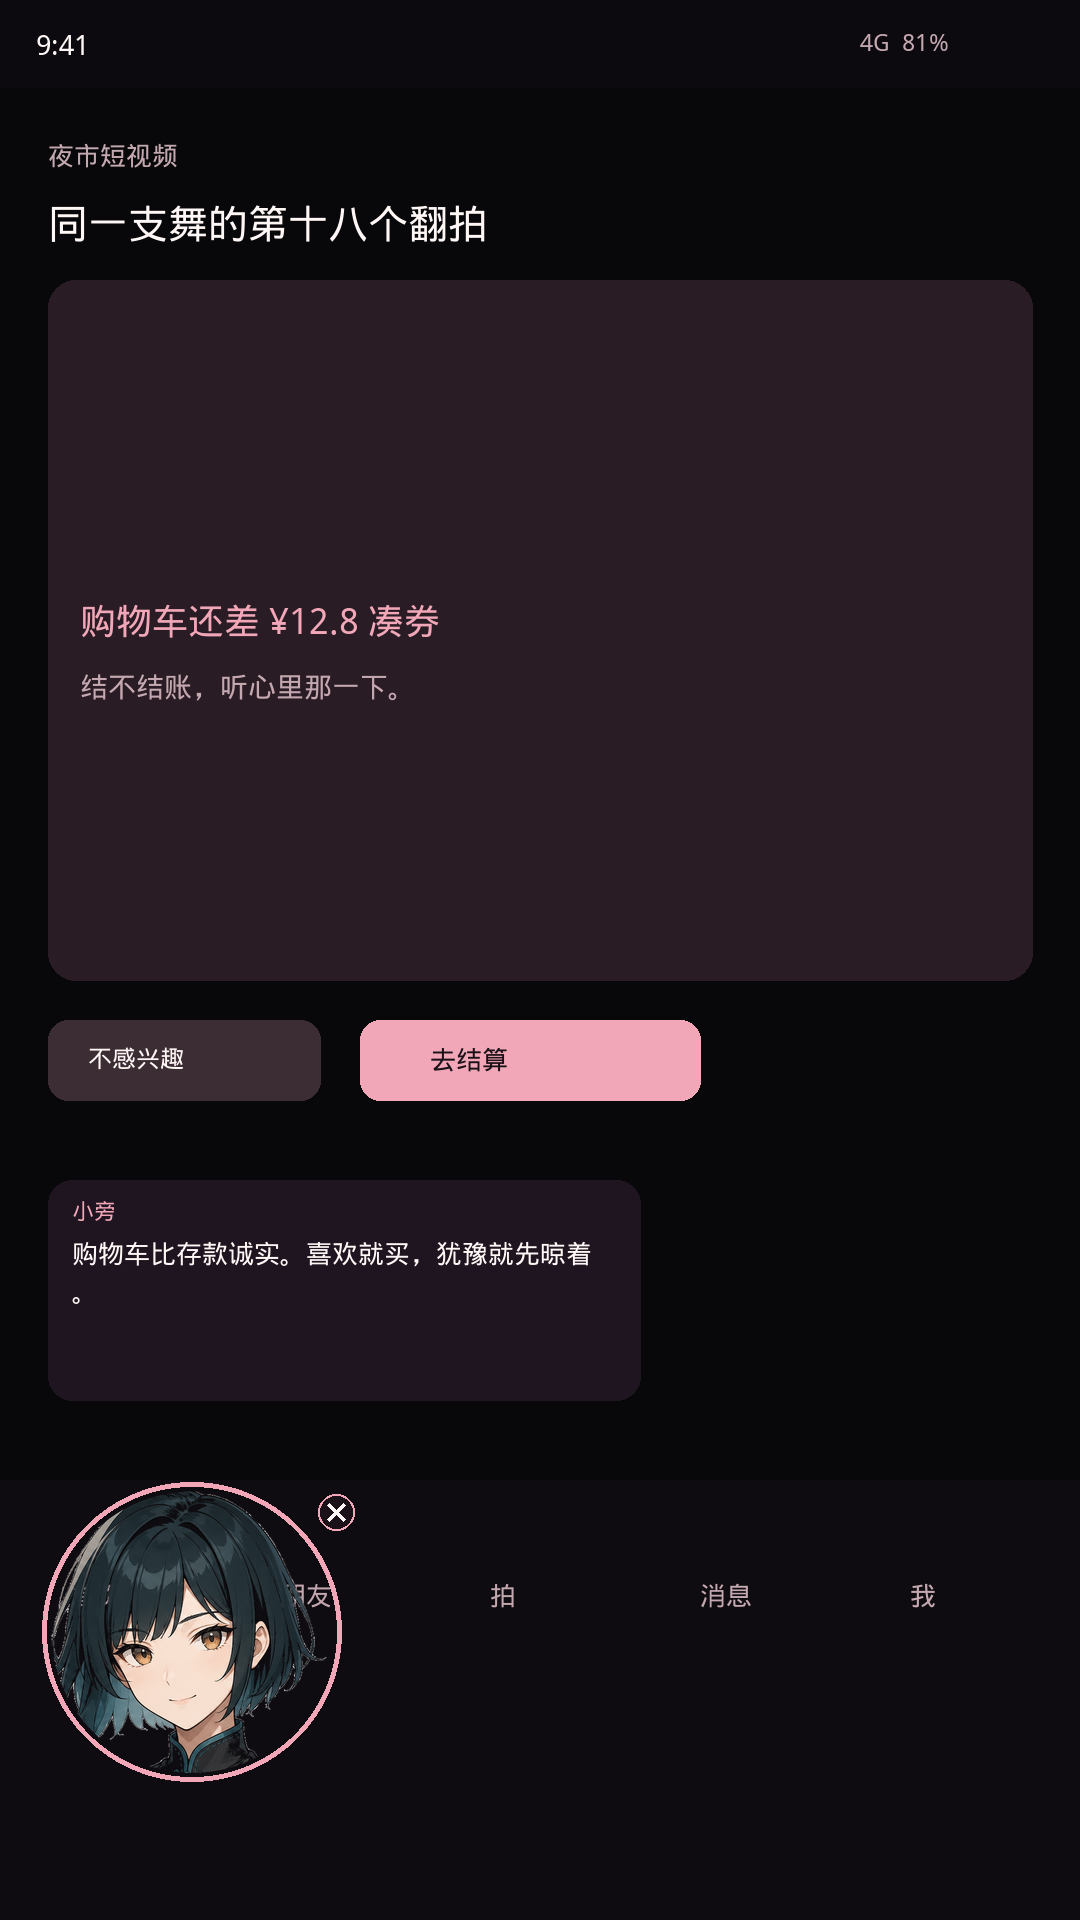
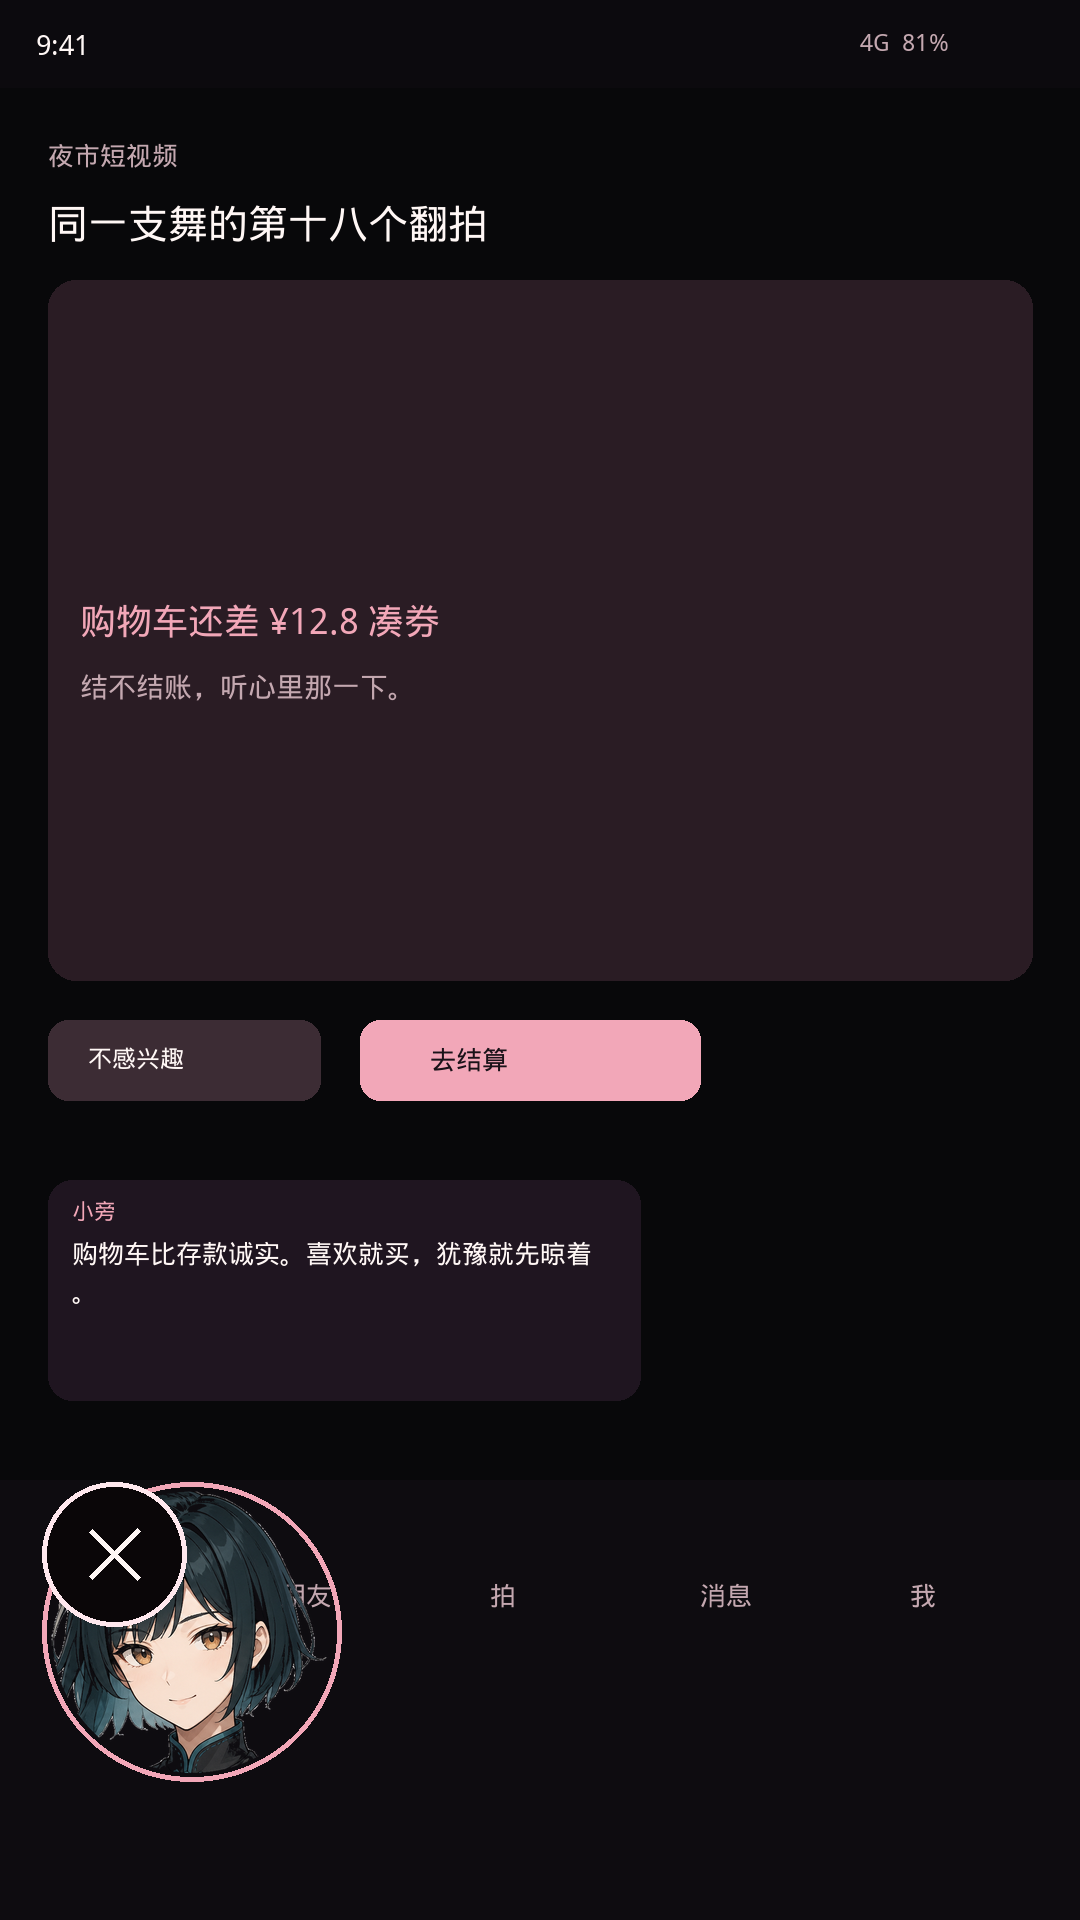
0.13 wip: rounds R61–R70 tests, ProGuard, listing honesty
Expand geometry/markdown tests, stop keeping the whole app in ProGuard,
show version on legal pages, and regenerate listing composites with a
48dp close chip. README and Play docs now name 0.13.0 and still keep
the 0.12.0 APK; screenshots stay labeled as composites, not device photos.

Changed region(s): [[0.0306, 0.75, 0.1833, 0.875], [0.3056, 0.7812, 0.3361, 0.8125]]

diff --git a/android/app/src/main/java/com/pangchuang/app/LegalActivity.kt b/android/app/src/main/java/com/pangchuang/app/LegalActivity.kt
@@ -13,12 +13,16 @@ class LegalActivity : AppCompatActivity() {
         setContentView(binding.root)
 
         val mode = intent.getStringExtra(EXTRA_MODE) ?: MODE_PRIVACY
-        val title = when (mode) {
+        val pageTitle = when (mode) {
             MODE_LICENSES -> getString(R.string.legal_licenses_title)
             MODE_TERMS -> getString(R.string.legal_terms_title)
             else -> getString(R.string.legal_privacy_title)
         }
-        binding.legalTitle.text = title
+        binding.legalTitle.text = pageTitle
+        binding.legalTitle.contentDescription = pageTitle
+        setTitle(pageTitle)
+        binding.legalVersion.text = getString(R.string.legal_about_version, BuildConfig.VERSION_NAME)
+        binding.btnLegalClose.contentDescription = getString(R.string.legal_up_cd)
 
         val web = binding.legalWeb
         web.setBackgroundColor(Color.parseColor("#1A1218"))
@@ -32,8 +36,28 @@ class LegalActivity : AppCompatActivity() {
             else -> MarkdownHtml.render(loadMarkdown("legal/privacy_policy.md"))
         }
         web.loadDataWithBaseURL(null, html, "text/html", "utf-8", null)
+        web.webViewClient = object : android.webkit.WebViewClient() {
+            override fun shouldOverrideUrlLoading(
+                view: android.webkit.WebView?,
+                request: android.webkit.WebResourceRequest?
+            ): Boolean {
+                val uri = request?.url ?: return true
+                if (uri.scheme == "https") {
+                    runCatching {
+                        startActivity(android.content.Intent(android.content.Intent.ACTION_VIEW, uri))
+                    }
+                }
+                return true
+            }
+        }
         binding.btnLegalClose.setOnClickListener { finish() }
         supportActionBar?.setDisplayHomeAsUpEnabled(true)
+        supportActionBar?.setHomeActionContentDescription(R.string.legal_up_cd)
+    }
+
+    override fun onSupportNavigateUp(): Boolean {
+        finish()
+        return true
     }
 
     private fun loadMarkdown(path: String): String = loadAsset(path)

diff --git a/android/app/src/test/java/com/pangchuang/app/MarkdownHtmlTest.kt b/android/app/src/test/java/com/pangchuang/app/MarkdownHtmlTest.kt
@@ -1,5 +1,6 @@
 package com.pangchuang.app
 
+import org.junit.Assert.assertEquals
 import org.junit.Assert.assertFalse
 import org.junit.Assert.assertTrue
 import org.junit.Test
@@ -26,5 +27,24 @@ class MarkdownHtmlTest {
         assertTrue(page.contains("<h1>Title</h1>"))
         assertTrue(page.contains("#1A1218"))
         assertFalse(page.substringAfter("<body>").contains("# Title"))
+    }
+
+    @Test
+    fun linksBecomeAnchors() {
+        val html = MarkdownHtml.convert("See [privacy](https://example.com/p).")
+        assertTrue(html.contains("<a href=\"https://example.com/p\">privacy</a>"))
+    }
+
+    @Test
+    fun emptyMarkdownIsEmpty() {
+        assertEquals("", MarkdownHtml.convert(""))
+        assertEquals("", MarkdownHtml.convert("   \n\n"))
+    }
+
+    @Test
+    fun zhParagraphAndBoldSurvive() {
+        val html = MarkdownHtml.convert("**截图**不会保存到相册。")
+        assertTrue(html.contains("<strong>截图</strong>"))
+        assertTrue(html.contains("不会保存到相册"))
     }
 }

diff --git a/android/app/src/test/java/com/pangchuang/app/OverlayGeometryTest.kt b/android/app/src/test/java/com/pangchuang/app/OverlayGeometryTest.kt
@@ -111,4 +111,22 @@ class OverlayGeometryTest {
         assertTrue(OverlayGeometry.minTouchTargetDp() >= 48)
         assertEquals(96, OverlayGeometry.avatarSizeDp())
     }
+
+    @Test
+    fun clampOnTabletWideAndTinyPhone() {
+        val (x, y) = OverlayGeometry.clamp(40, 40, 96, 96, 2560, 1600, 8)
+        assertTrue(x >= 8)
+        assertTrue(y >= 8)
+        assertTrue(x + 96 <= 2560)
+        val (sx, sy) = OverlayGeometry.clamp(500, 500, 96, 160, 360, 640, 8)
+        assertTrue(sx + 96 <= 360)
+        assertTrue(sy + 160 <= 640)
+    }
+
+    @Test
+    fun snapXRtlDoesNotDependOnLanguageOnlyGeometry() {
+        // Gravity.START is applied by WindowManager; math stays LTR pixels.
+        assertEquals(8, OverlayGeometry.snapX(10, 96, 720, 8))
+        assertEquals(720 - 96 - 8, OverlayGeometry.snapX(400, 96, 720, 8))
+    }
 }

diff --git a/android/app/src/main/java/com/pangchuang/app/OverlayController.kt b/android/app/src/main/java/com/pangchuang/app/OverlayController.kt
@@ -225,7 +225,7 @@ class OverlayController(
     }
 
     /**
-     * Overlay is a face crop, not the screen content being roasted.
+     * Overlay is a face crop, not the screen content being captured.
      * Do not blink the whole window out for capture.
      */
     fun hideForCapture() {

diff --git a/scripts/generate-play-screenshots.py b/scripts/generate-play-screenshots.py
@@ -12,8 +12,9 @@ AMBER = (242, 167, 184, 255)
 PANEL = (31, 21, 32, 230)
 YELLOW = (242, 167, 184, 255)
 W, H = 1080, 1920
-# 96dp on a 360dp-wide 1080px composite ≈ 288px.
+# 96dp on a 360dp-wide 1080px composite ≈ 288px. 48dp close ≈ 144px.
 OVERLAY_FACE = 288
+OVERLAY_CLOSE = 144
 
 
 def font(size: int) -> ImageFont.FreeTypeFont:
@@ -147,12 +148,13 @@ def paint_overlay(base: Image.Image, line: str, face: Image.Image) -> Image.Imag
     ImageDraw.Draw(ring).ellipse((0, 0, ring.size[0] - 1, ring.size[1] - 1), outline=AMBER, width=5)
     img.alpha_composite(ring, (ax - 6, ay - 6))
     img.alpha_composite(face, (ax, ay))
-    # Small close affordance at the top-right of the 96dp face.
-    cx = ax + face.size[0] - 18
-    cy = ay + 6
-    d.ellipse((cx, cy, cx + 36, cy + 36), fill=(26, 18, 24, 220), outline=AMBER, width=2)
-    d.line((cx + 10, cy + 10, cx + 26, cy + 26), fill=FOAM, width=3)
-    d.line((cx + 26, cy + 10, cx + 10, cy + 26), fill=FOAM, width=3)
+    # 48dp close chip on the start/outer corner of the 96dp face (not a device photo).
+    cx = ax - 6
+    cy = ay - 6
+    d.ellipse((cx, cy, cx + OVERLAY_CLOSE, cy + OVERLAY_CLOSE), fill=(10, 6, 8, 240), outline=(255, 232, 238, 255), width=5)
+    pad = OVERLAY_CLOSE // 3
+    d.line((cx + pad, cy + pad, cx + OVERLAY_CLOSE - pad, cy + OVERLAY_CLOSE - pad), fill=FOAM, width=6)
+    d.line((cx + OVERLAY_CLOSE - pad, cy + pad, cx + pad, cy + OVERLAY_CLOSE - pad), fill=FOAM, width=6)
     return img.convert("RGB")
 
 
@@ -166,10 +168,10 @@ def overlay_closeup(face: Image.Image) -> Image.Image:
     d.text((72, 80), "演示模式 · 不看真屏", font=font(28), fill=MIST[:3])
     big = face.resize((420, 420), Image.Resampling.LANCZOS)
     img.paste(big, (330, 260), big)
-    # Close chip matching the overlay control.
-    d.ellipse((700, 250, 752, 302), fill=(26, 18, 24), outline=AMBER, width=3)
-    d.line((714, 264, 738, 288), fill=FOAM[:3], width=3)
-    d.line((738, 264, 714, 288), fill=FOAM[:3], width=3)
+    # Close chip matching the 48dp overlay control (composite, not a device photo).
+    d.ellipse((250, 230, 250 + OVERLAY_CLOSE, 230 + OVERLAY_CLOSE), fill=(10, 6, 8), outline=(255, 232, 238), width=5)
+    d.line((250 + 40, 230 + 40, 250 + OVERLAY_CLOSE - 40, 230 + OVERLAY_CLOSE - 40), fill=FOAM[:3], width=6)
+    d.line((250 + OVERLAY_CLOSE - 40, 230 + 40, 250 + 40, 230 + OVERLAY_CLOSE - 40), fill=FOAM[:3], width=6)
     rounded(d, (80, 860, 1000, 1280), 32, PANEL)
     d.text((120, 900), "小旁", font=font(28), fill=AMBER)
     d.text((120, 960), "短视频一条接一条，像夜里不停的潮。", font=font(32), fill=FOAM[:3])
@@ -188,7 +190,7 @@ def main() -> None:
         face = cut_face(face_path, OVERLAY_FACE)
         overlay_shot(face).save(OUT / "screenshot_overlay.png", "PNG")
         overlay_closeup(face).save(OUT / "screenshot_overlay_closeup.png", "PNG")
-        print("wrote listing screenshots including 96dp overlay composite")
+        print("wrote listing screenshot composites (96dp avatar, 48dp close; not device photos)")
     else:
         print("wrote listing screenshots (no moxi_face.png, skipped overlay)")
 

diff --git a/docs/play/iteration-100.md b/docs/play/iteration-100.md
@@ -62,3 +62,13 @@ R57 | companion | changeThreshold has a one-line explanation under the field | a
 R58 | companion | Restore-purchases hint sits above the restore button in advanced settings | activity_main.xml, strings.xml
 R59 | companion | Empty API key shows a dialog explaining what is missing before Play overlay | MainActivity.kt
 R60 | companion | SiliconFlow / OpenAI-compatible one-liner under base URL | activity_main.xml, strings.xml
+R61 | tests | OverlayGeometry: rotation, 96dp avatar, off-screen clamp, tablet/tiny phone, snap geometry | OverlayGeometryTest.kt
+R62 | tests | MarkdownHtml: headings, links, empty, zh bold | MarkdownHtmlTest.kt
+R63 | tests | SensitiveApps: WeChat not skipped; IME/bank/authenticator skipped | SensitiveAppsTest.kt
+R64 | shipping | ProGuard no longer keeps the entire app package; keep JS bridge + billing | proguard-rules.pro
+R65 | copy | User-visible roast wording already gone; overlay comment no longer says roasted | OverlayController.kt
+R66 | docs | README Android-first with 0.13.0 APK link; 0.12.0 APK link kept | README.md
+R67 | docs | listing, listing-i18n, release-notes, YOU-MUST-DO, checklist updated honestly (composites ≠ device; Pages still user) | docs/play/*.md, docs/play-store-checklist.md
+R68 | assets | Play icon and feature graphic remain 墨汐; overlay screenshots regenerated for 48dp close | docs/play/assets/
+R69 | assets | Screenshot generator draws 48dp close and 96dp avatar and does not claim a device | generate-play-screenshots.py
+R70 | about | App version shown on legal pages | LegalActivity.kt, activity_legal.xml

diff --git a/docs/play/YOU-MUST-DO.md b/docs/play/YOU-MUST-DO.md
@@ -79,7 +79,7 @@ License testing：Settings → License testing，把你的 Gmail 加进去，内
 
 1. 打开 **App signing**：第一次上传时选择由 Google 管理应用签名密钥（推荐）
 2. Testing → Internal testing → 创建版本
-3. 上传 `pangchuang-0.12.0.aab`（见本地 `bundleRelease` 输出；不要把 `.jks` / AAB 提交进 Git）
+3. 上传 `pangchuang-0.13.0.aab`（见本地 `bundleRelease` 输出；不要把 `.jks` / AAB 提交进 Git）。仓库里的 `dist/pangchuang-0.12.0-debug.apk` 与 `dist/pangchuang-0.13.0-debug.apk` 只供侧载，不能用来测 Play 内购。
 4. 把你的 Google 账号加为测试员，用测试轨道链接安装（**不要用 GitHub debug APK 测购买**）
 
 ## 7. 按填表包复制粘贴
@@ -102,7 +102,7 @@ License testing：Settings → License testing，把你的 Gmail 加进去，内
 - 高清图标 `play_icon_512.png`
 - 特色图片 `feature_graphic_1024x500.png`
 - 手机截图至少 2 张，建议 4 张：`screenshot_settings.png`、`screenshot_consent.png`、`screenshot_overlay.png`、`screenshot_overlay_closeup.png`
-- 悬浮窗那两张是用原创国风角色「墨汐」拼的草稿（约 96dp 头像框，带关闭角标），**不是真机照片，提交前请用真机演示模式换掉**
+- 悬浮窗那两张是用原创国风角色「墨汐」拼的草稿（约 96dp 头像框、48dp 关闭角标），**是合成图，不是真机照片，提交前请用真机演示模式换掉**
 
 ## 8. 你必须拍的两段短视频（真机）
 

diff --git a/docs/play/listing-i18n.md b/docs/play/listing-i18n.md
@@ -1,6 +1,8 @@
 # Play 商店多语言文案（直接粘贴）
 
-默认语言仍是中文（简体），英文见 `listing.md`。下面每条短说明都按 Play **80 字符**上限写过。完整说明远低于 4000 字符。应用名称保持「旁窗」或 `Pangchuang`。
+默认语言仍是中文（简体），英文见 `listing.md`。下面每条短说明都按 Play **80 字符**上限写过。完整说明远低于 4000 字符。应用名称：中文「旁窗」、韩语「곁창」、日语「傍窓」、泰语「ข้างหน้าต่าง」，其它语言用 `Pangchuang`。
+
+商店截图 `docs/play/assets/screenshot_*.png` 是 **0.13 合成草稿**（96dp 墨汐头像、48dp 关闭角标），**不是真机照片**。GitHub Pages 隐私政策 URL 仍须你亲自启用。
 
 Console：商店上架 → 添加翻译 → 选语言 → 粘贴 Title / Short / Full。没有译文的语言会回落到默认中文。
 

diff --git a/docs/play-store-checklist.md b/docs/play-store-checklist.md
@@ -1,6 +1,6 @@
 # Google Play 上架清单（旁窗）
 
-## 已完成（仓库内，0.12.0）
+## 已完成（仓库内，0.13.0）
 
 - [x] 默认视觉模型：`Qwen/Qwen3-VL-8B-Instruct`
 - [x] `targetSdk` / `compileSdk` **36**（2026-08-31 起新应用硬性要求）
@@ -63,3 +63,4 @@
 | 0.10.0 | 封闭测试说明；Pages 工作流；Live2D 商店悬浮窗图；完整陪伴 FGS 同时声明 overlay+录屏 |
 | 0.11.0 | 悬浮窗角色换成原创国风 Live2D「墨汐」，移除无商用授权的虹色 Mao |
 | 0.12.0 | 锁屏真正停截屏；演示不污染完整陪伴；96dp 可贴边悬浮窗；陪伴首页；法律页 Markdown；墨汐图标 |
+| 0.13.0 | 同意前不索通知；撤回同意；敏感应用暂停镜像；48dp 关闭与记住位置；电量/540p；Live2D 眨眼与心情；14 语言补译 |

diff --git a/docs/play/listing.md b/docs/play/listing.md
@@ -81,7 +81,7 @@ You pay your own vision-API usage. The character is original Chinese-style Live2
 |-----------|------|
 | 高清图标 512×512 | `docs/play/assets/play_icon_512.png` |
 | 特色图形 1024×500 | `docs/play/assets/feature_graphic_1024x500.png` |
-| 手机截图 | `screenshot_settings.png` `screenshot_consent.png` `screenshot_overlay.png` `screenshot_overlay_closeup.png` |
+| 手机截图 | `screenshot_settings.png` `screenshot_consent.png` `screenshot_overlay.png` `screenshot_overlay_closeup.png`（合成草稿，96dp 头像 / 48dp 关闭，**不是真机照片**） |
 
 ## 内购商品
 

diff --git a/docs/play/release-notes.md b/docs/play/release-notes.md
@@ -2,6 +2,16 @@
 
 每次上传 AAB 时可改。没有新功能就沿用上一条。
 
+## 0.13.0
+
+中文：
+
+锁屏与敏感应用都会释放截屏镜像。悬浮窗 48dp 关闭、位置会记住。首页不再在同意前要通知权限。Debug 包有明显自动解锁提示。
+
+English:
+
+Lock and sensitive apps both release the capture mirror. 48dp overlay close, remembered position. Home no longer asks for notifications before privacy consent. Debug builds show an auto-unlock chip.
+
 ## 0.12.0
 
 中文：

diff --git a/README.md b/README.md
@@ -6,6 +6,8 @@
 
 **默认视觉模型：`Qwen/Qwen3-VL-8B-Instruct`（稳定推荐）**
 
+**当前版本：0.13.0**（debug APK：`dist/pangchuang-0.13.0-debug.apk`）。上一版 `dist/pangchuang-0.12.0-debug.apk` 仍保留。
+
 **定价：演示免费；完整真屏陪伴通过 Google Play 一次性解锁（约 $0.99）。Debug 包侧载测试时自动解锁。**
 
 ## 真机怎么用
